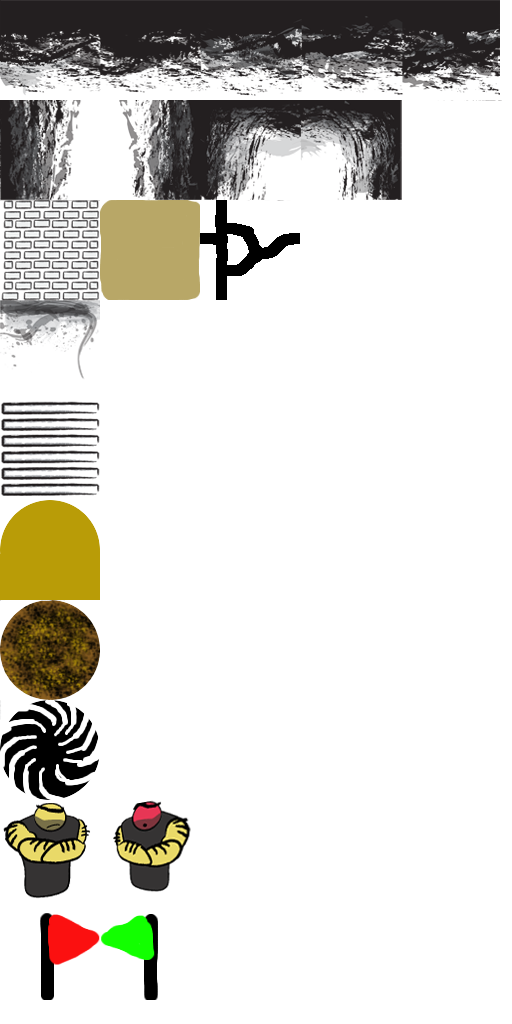
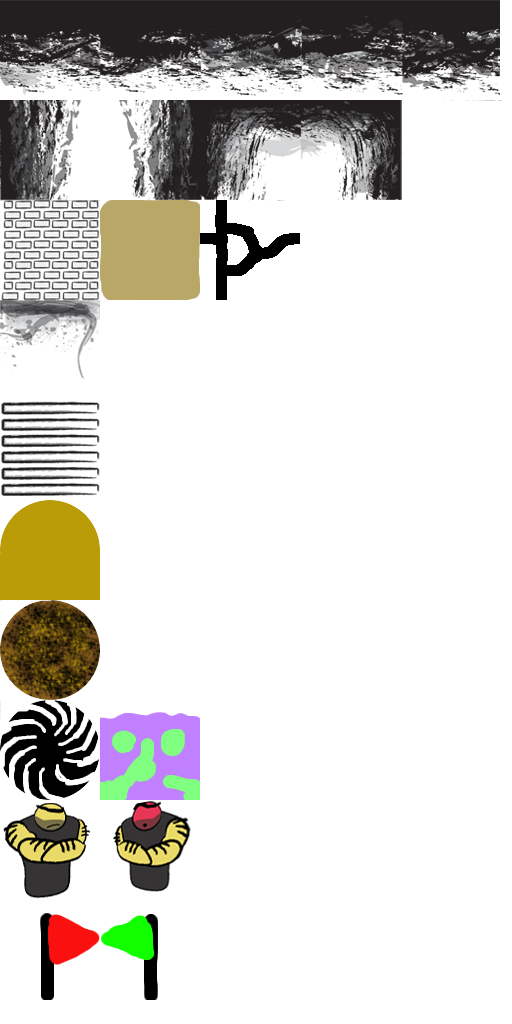
Toxic sludge has now been implemented.

Changed region(s): [[0.1875, 0.6875, 0.4062, 0.7812]]

diff --git a/trunk/src/main.cpp b/trunk/src/main.cpp
@@ -116,7 +116,7 @@ void initLevel(int level)
   Drawable *map_image, *pointer, *left_block, *right_block, *left_corner_block;
   Drawable *right_corner_block, *moveable, *goal, *block2, *block3, *block4;
   Drawable *block5, *black_hole, *bouncer_cr, *bouncer_cl, *bouncer_o, *rubber;
-  Drawable *circuit, *n_check, *o_check;
+  Drawable *circuit, *n_check, *o_check, *toxic_sludge;
   Texture *t, *bg, *tiles, *pause_bg, *mi, *pi, *ahnold, *jumper, *nums, *ps_ic;
   Texture *engineer, *paris, *kurt;
   vector<Texture*> textures;
@@ -247,6 +247,8 @@ void initLevel(int level)
   pointer = new Drawable(650, 270, 1, 1, VARIABLE, pi);
   goal = new Drawable(0.0f, 0.0f, GOALT, 1, TILE, tiles);
   black_hole = new Drawable(0.0f, 0.0f, BH, 1, TILE, tiles);
+  toxic_sludge = new Drawable(0.0f, 0.0f, BH, 1, TILE, tiles);
+  toxic_sludge->set_cur_frame(T_SLUDGE_FRAME);
   bouncer_cr = new Drawable(0.0f, 0.0f, BOUNCERS, 1, TILE, tiles);
   bouncer_cl = new Drawable(0.0f, 0.0f, BOUNCERS, 1, TILE, tiles);
   bouncer_cl->change_direction(LEFT);
@@ -282,6 +284,7 @@ void initLevel(int level)
   v.push_back(breakable);
   v.push_back(goal);
   v.push_back(black_hole);
+  v.push_back(toxic_sludge);
   v.push_back(bouncer_cr);
   v.push_back(bouncer_cl);
   v.push_back(bouncer_o);

diff --git a/trunk/src/game_state.cpp b/trunk/src/game_state.cpp
@@ -183,14 +183,19 @@ void Game_State::update(int &delta)
   // if the specials are hitting any black holes, reset their positions
   for (unsigned int i = 0; i < specials.size(); ++i)
   {
-    if(specials.at(i)->will_collide_tile(map, BLACK_HOLE, NULL) &&
-       !specials.at(i)->will_collide_y(map))
+    if((specials.at(i)->will_collide_tile(map, BLACK_HOLE, NULL) ||
+        specials.at(i)->will_collide_tile(map, TOXIC_SLUDGE, NULL)) &&
+       !(specials.at(i)->will_collide_y(map) ||
+         specials.at(i)->will_collide_moveables_y(moveables, -1, NULL)))
     {
       specials.at(i)->go_home(map);
     }
   }
   
-  if (c == p && p->will_collide_tile(map, BLACK_HOLE, NULL))
+  if (c == p && (p->will_collide_tile(map, BLACK_HOLE, NULL) ||
+                 p->will_collide_tile(map, TOXIC_SLUDGE, NULL)) &&
+      !(p->will_collide_y(map) ||
+        p->will_collide_moveables_y(moveables, -1, NULL)))
   {
     p->reset(map);
   }

diff --git a/trunk/src/map.cpp b/trunk/src/map.cpp
@@ -380,6 +380,11 @@ bool Map::load_map(const char *map_bmp, vector<Moveable *> &moveables,
       {
         map[x][y][M_TILE] = BLACK_HOLE;
       }
+      // toxic sludge tile
+      else if (red[0] == 128 && green[0] == 255 && blue[0] == 128)
+      {
+        map[x][y][M_TILE] = TOXIC_SLUDGE;
+      }
       // moving platform
       else if(red[0] == 128 && green[0] == 0 && blue[0] == 128)
       {

diff --git a/trunk/src/defines.h b/trunk/src/defines.h
@@ -112,6 +112,7 @@ typedef enum
 #define RUBBER_FRAME 2
 #define CIRCUIT_FRAME 3
 #define OLD_CHECK_FRAME 2
+#define T_SLUDGE_FRAME 2
 typedef enum
 {
   BG,
@@ -131,6 +132,7 @@ typedef enum
   BREAKABLE,
   GOAL,
   BLACK_HOLE,
+  TOXIC_SLUDGE,
   BOUNCER_CLOSED_R,
   BOUNCER_CLOSED_L,
   BOUNCER_OPEN,
